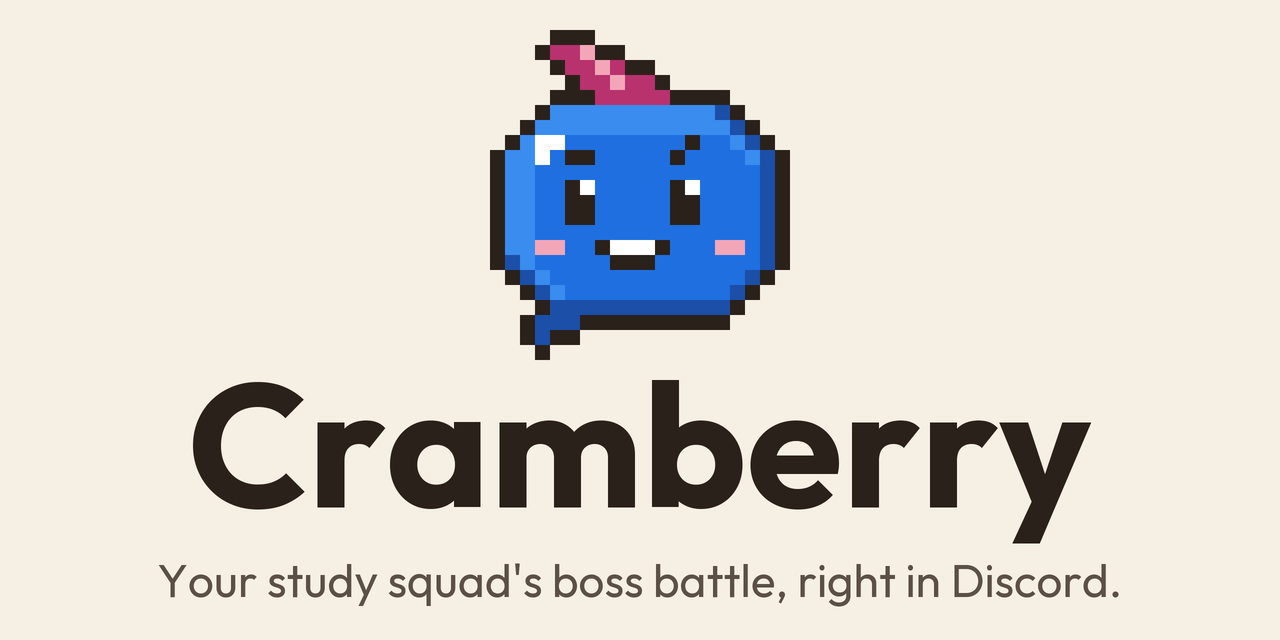
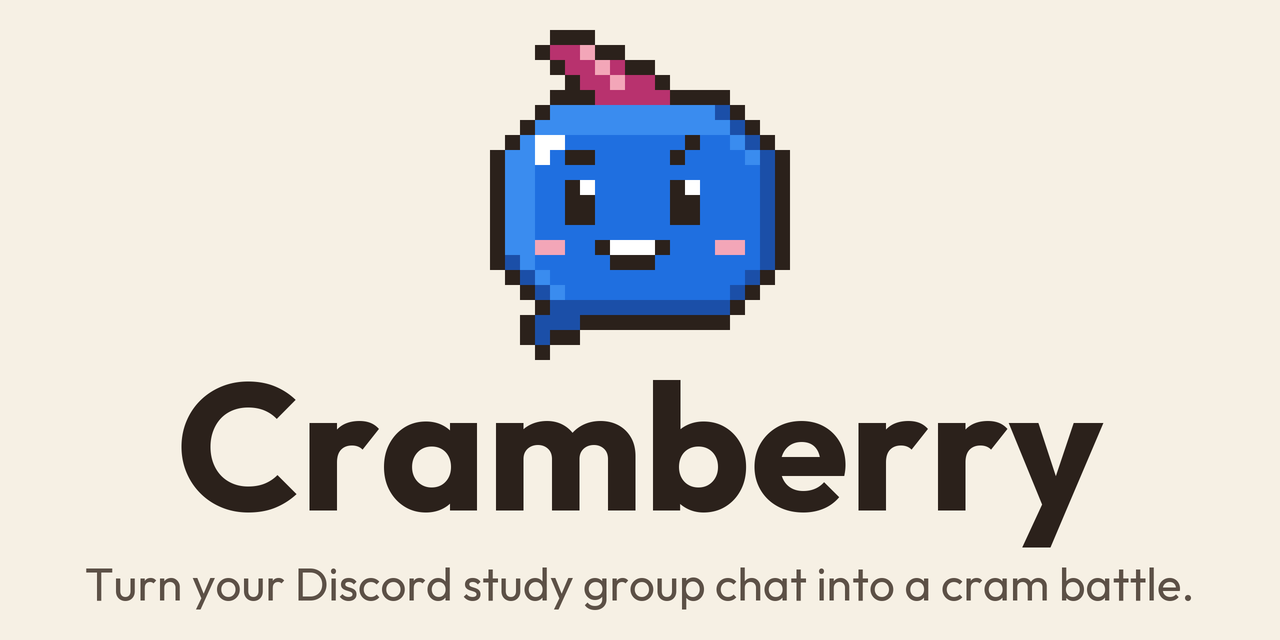
Match README wording to the website and update social preview

Changed region(s): [[0.0625, 0.5938, 0.9375, 0.9688]]

diff --git a/README.md b/README.md
@@ -5,9 +5,10 @@
   <img src="docs/img/wordmark-light.png" width="520" alt="Cramberry: the blue pixel berry next to the word Cramberry in pixel letters">
 </picture>
 
-### Your study squad's boss battle, right in Discord.
+### Turn your Discord study group chat into a cram battle.
 
-A pixel berry knight that turns a study group's Discord into a quiz game, and talks to each student's own Cubbie.
+**Cramberry** (cram + cranberry) is a Discord bot for study groups. When someone says "im cooked", it starts a
+2-minute quiz the whole group plays together, and each person's Cubbie texts them what they got wrong.
 
 ![Cubbie Hackathon](https://img.shields.io/badge/cubbie%20hackathon-track%203-1f6fe0?style=for-the-badge)
 ![Discord](https://img.shields.io/badge/lives%20in-discord-5865f2?style=for-the-badge)
@@ -18,7 +19,7 @@ A pixel berry knight that turns a study group's Discord into a quiz game, and ta
 
 <sub>Team wildberry · Cubbie Hackathon, Track 3 (Group Chat Assistant) · DevHacks Fall 2026</sub>
 
-**[How Cubbie fits in](#how-cubbie-is-in-the-loop)** · **[Cubbie on your phone](#cubbie-from-your-phone)** · **[Quick start](#quick-start)** · **[Full setup guide](SETUP.md)** · **[Demo](#demo-in-3-minutes)**
+**[How it works](#how-it-works)** · **[Cubbie](#cubbie-from-your-phone)** · **[Games](#the-games)** · **[Quick start](#quick-start)** · **[Setup guide](SETUP.md)**
 
 </div>
 
@@ -26,30 +27,29 @@ A pixel berry knight that turns a study group's Discord into a quiz game, and ta
 
 ## Why it exists
 
-Studying alone is boring, group study turns into chatting, and nobody knows what the group *actually* doesn't
-understand.
+Studying alone is boring, group study turns into chatting, and nobody knows what the group doesn't understand.
 
-Cramberry makes the group chat itself the study session. Someone says *"im so cooked on caches"*, and two minutes
-later the whole squad is fighting the Caches Boss together. Every right answer drains its HP; every wrong one lets it
-hit back. When the fight ends, the squad sees its weakest topic, and each student's **Cubbie** quietly texts them
-what *they* missed.
+Cramberry turns the group chat into the cram session. Someone says *"im so cooked on caches"*, and two minutes later
+the whole group is fighting the Caches Boss: right answers drain its HP, wrong ones let it hit back. When the fight
+ends, everyone sees the topic to review, and each person's **Cubbie** texts them what *they* missed.
 
 ---
 
-## How Cubbie is in the loop
+## How it works
 
 <div align="center"><img src="docs/img/flow.png" width="860" alt="How the squad is linked: each student's Cubbie reads their Canvas in private, sends a snapshot or a battle to the Cramberry server over the squad-link skill, Cramberry posts the game in the Discord group chat, the squad answers, and each private recap goes back only to that student's Cubbie"></div>
 
 | | |
 |---|---|
-| **Cubbie reads Canvas** | Each student links their Cubbie with `/link`. On every check-in it shares a small course snapshot: course codes, this week's topics, due dates and what's submitted. Never grades or files. |
-| **Cubbie builds battles** | Questions come from that student's own course material, and Cubbie **asks them first** before Cramberry posts anything. |
-| **Cramberry spots the moment** | From everyone's snapshots it notices *"3 of you have the midterm Thursday"* or *"the squad keeps missing associativity"* and offers a battle. |
-| **Recaps stay private** | The group sees questions, answers and scores. Your misses and @mentions go only to your own Cubbie, through your private key. |
+| **1. Your Cubbie checks Canvas** | Topics and due dates for your classes. Never grades or files. |
+| **2. It writes a quiz from your notes** | And asks you before sending it to the group. |
+| **3. Cramberry posts it in Discord** | Picture cards and A–D buttons in your group chat. |
+| **4. Everyone answers** | Right answers hurt the boss; wrong ones hurt your team. |
+| **5. Your results stay private** | Your rank and what you missed go only to your own Cubbie. |
 
-Cubbie can't receive messages, so it always comes to Cramberry, like checking a mailbox. Cramberry keeps only the
-last ~20 chat messages in memory (never stored), and `/quiet` turns chat reading off. No Cubbie? Everything except
-the Cubbie features still works.
+Cramberry also spots the right moment from everyone's snapshots (*"3 of you have the midterm Thursday"*) and
+offers a battle. It keeps only the last ~20 chat messages in memory, never stored, and `/quiet` turns chat reading
+off. No Cubbie? Everything except the Cubbie features still works.
 
 ---
 
@@ -61,7 +61,7 @@ the Cubbie features still works.
 |---|---|
 | *install https://github.com/MalaikaKamranKhan/Track3/blob/main/cubbie-skill/squad-link/SKILL.md* | Cubbie installs the squad-link skill |
 | *link my study squad* | Cubbie sends a **private page**: paste the key from `/link` there, never in the chat. It confirms "Linked as … to wildberry squad's #general on Discord" and asks to share your course progress |
-| *check my squad and share my course snapshot* | Your courses and deadlines reach Cramberry (`/radar`, `/insights`) and anything new from the squad comes back |
+| *check my squad and share my course snapshot* | Your courses and deadlines reach Cramberry (`/radar`, `/insights`), and anything new from your group comes back |
 | *challenge my squad on caches* | Cubbie writes the questions, asks *"Post this battle to your squad?"*, and posts only after you say yes |
 | *how did the squad battle go?* | Your private recap: rank, what you missed and why |
 | *update squad-link* | Re-installs the skill from GitHub, e.g. after the bot's server address changes |
@@ -74,10 +74,10 @@ Details in [SETUP.md → Connect Cubbie](SETUP.md#7-connect-cubbie).
 
 | Game | How it plays |
 |---|---|
-| **Boss Battle** `/battle <topic>` | Everyone answers A–D. Right answers damage the boss; wrong ones let it hit the squad back. 3 in a row is a ⚡ critical hit, there's one 🎲 50/50 per battle, and the final strike lets you 💰 wager half or all in. |
-| **Two Truths & a Lie** `/lie <topic>` | Three statements, one is a plausible misconception. Find the lie before the dragonfruit liar wins. |
-| **Explain It** `/explain <topic>` | Cramberry calls on someone to explain a concept in their own words. The AI grades it 0–10 and says what to add. Pass, and it's open floor for half XP. |
-| **Daily Duel** `/daily` | One question a day to keep your streak and the squad streak alive. `/daily 8pm` schedules it, `/daily off` stops it. |
+| **Boss Battle** `/battle <topic>` | Everyone answers A–D. Right answers hurt the boss; wrong ones hurt your team. 3 in a row is a ⚡ critical hit, there's one 🎲 50/50 per battle, and on the last question you can 💰 wager half or all in. |
+| **Two Truths & a Lie** `/lie <topic>` | Three statements, one false. Find the lie before the dragonfruit liar wins. |
+| **Explain It** `/explain <topic>` | Cramberry picks someone to explain a concept in their own words. The AI scores it 0–10 and says what to add. Pass, and anyone can answer for half XP. |
+| **Daily Duel** `/daily` | One question a day. Keep your streak and the group's streak alive. `/daily 8pm` schedules it, `/daily off` stops it. |
 
 <div align="center"><img src="docs/img/bosses.png" width="860" alt="Fruit topic bosses: grape, lime, lemon, tangerine, kiwi, the dragonfruit liar, and a defeated boss"></div>
 
@@ -86,9 +86,9 @@ lime, TCP is lemon. Below 40% HP a boss gets a bandage; at zero it turns grey.
 
 ---
 
-## What the squad sees
+## What your group sees
 
-Every battle posts a picture card after each question, drawn live by the bot.
+After every question, Cramberry posts a picture card, drawn live by the bot.
 
 | | |
 |---|---|
@@ -97,14 +97,14 @@ Every battle posts a picture card after each question, drawn live by the bot.
 | <img src="docs/img/card-liar.png" alt="Two Truths and a Lie card with the pink dragonfruit liar"> | <img src="docs/img/card-defeated.png" alt="Battle card: the kiwi Sorting Boss, grey and defeated"> |
 | **Two Truths & a Lie.** The dragonfruit liar. | **Defeated.** The boss goes grey. |
 | <img src="docs/img/card-victory.png" alt="Results card: VICTORY with a podium of Malaika, Sunny and Dhanush, Cramberry holding a sword and the beaten boss"> | <img src="docs/img/card-wiped.png" alt="Results card: SQUAD WIPED, the grape boss still angry"> |
-| **Victory.** The podium and the squad's weak spot. | **Squad wiped.** Run it back. |
+| **Victory.** The podium and the topic to review. | **Lost.** It shows what to study next. |
 
 ---
 
 ## "im cooked"
 
-Say you're cooked in the group chat (*"im cooked"*, *"gonna fail"*, *"send help"*) and Cramberry rallies the whole
-squad instead of letting you spiral.
+Say you're cooked in the group chat (*"im cooked"*, *"gonna fail"*, *"send help"*) and Cramberry gets the whole
+group studying with you.
 
 <div align="center"><img src="docs/img/sos.png" width="860" alt="Discord: Sunny says they're cooked on caches, and Cramberry replies with a five-step game plan: battle, explain, plan, focus, radar"></div>
 
@@ -119,7 +119,7 @@ exam"* doesn't count.
 |---|---|
 | `/plan <topic>` | A poll for a study time. The starter locks it, everyone going gets pinged 30 min before, and linked Cubbies offer to add it to Google Calendar. |
 | `/focus [minutes]` | Group Pomodoro. Join, focus, get pinged at the break. |
-| `/radar` | Everything due in the next 7 days across the squad (from linked Cubbies). Also posts every morning at 9. |
+| `/radar` | Everything due in the next 7 days across the group (from linked Cubbies). Also posts every morning at 9. |
 | `/notes` | Upload slides or notes (PDF, txt, md), and battles on those topics use them. |
 | `/insights` | What Cramberry knows: courses, this week's topics, deadlines, weak spots. |
 | `/profile` · `/leaderboard` | Level, XP, badges, streaks, accuracy. |
@@ -155,7 +155,7 @@ troubleshooting are in the **[full setup guide](SETUP.md)**.
 
 ## Demo in 3 minutes
 
-1. Sunny types *"midterm thursday, im so cooked on caches"* and Cramberry rallies the squad.
+1. Sunny types *"midterm thursday, im so cooked on caches"* and Cramberry gets the group studying.
 2. Malaika texts her **Cubbie** *"challenge my squad on caches from my CSE 230 notes"*, approves it, and *"📲 Malaika's Cubbie built this"* lands in Discord.
 3. Judges press A–D on their own phones and watch the grape boss's HP drop and the podium form.
 4. Malaika texts Cubbie *"how did the squad battle go?"* and gets a private recap with her missed question explained.
@@ -189,7 +189,7 @@ tests/                           27 offline tests, from battle rules to the full
 
 ## Team
 
-Built in one weekend by **team wildberry**: **Malaika**, **Sunny** and **Dhanush**.
+**Team wildberry**: **Malaika**, **Sunny** and **Dhanush**, three students who crammed Cramberry into one weekend.
 
 ## License and credits
 
